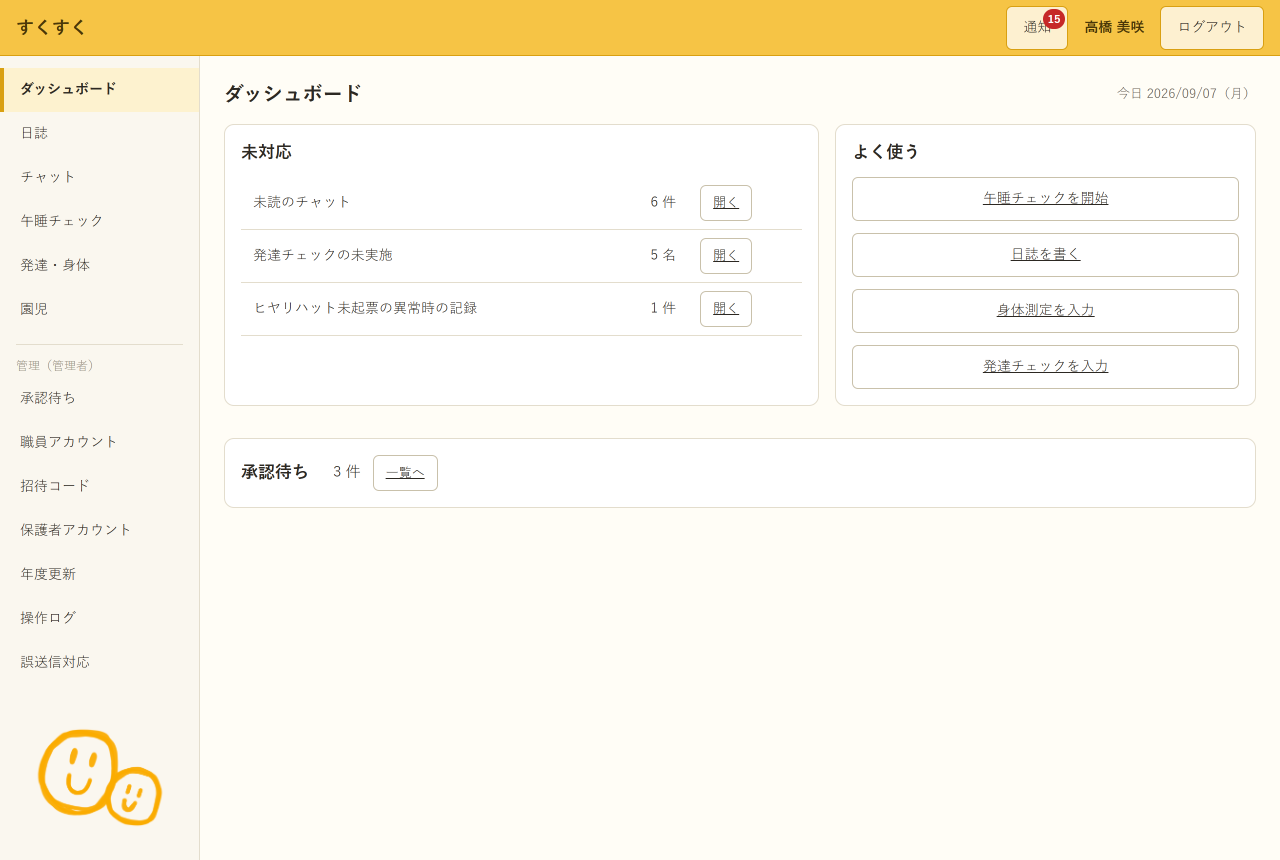
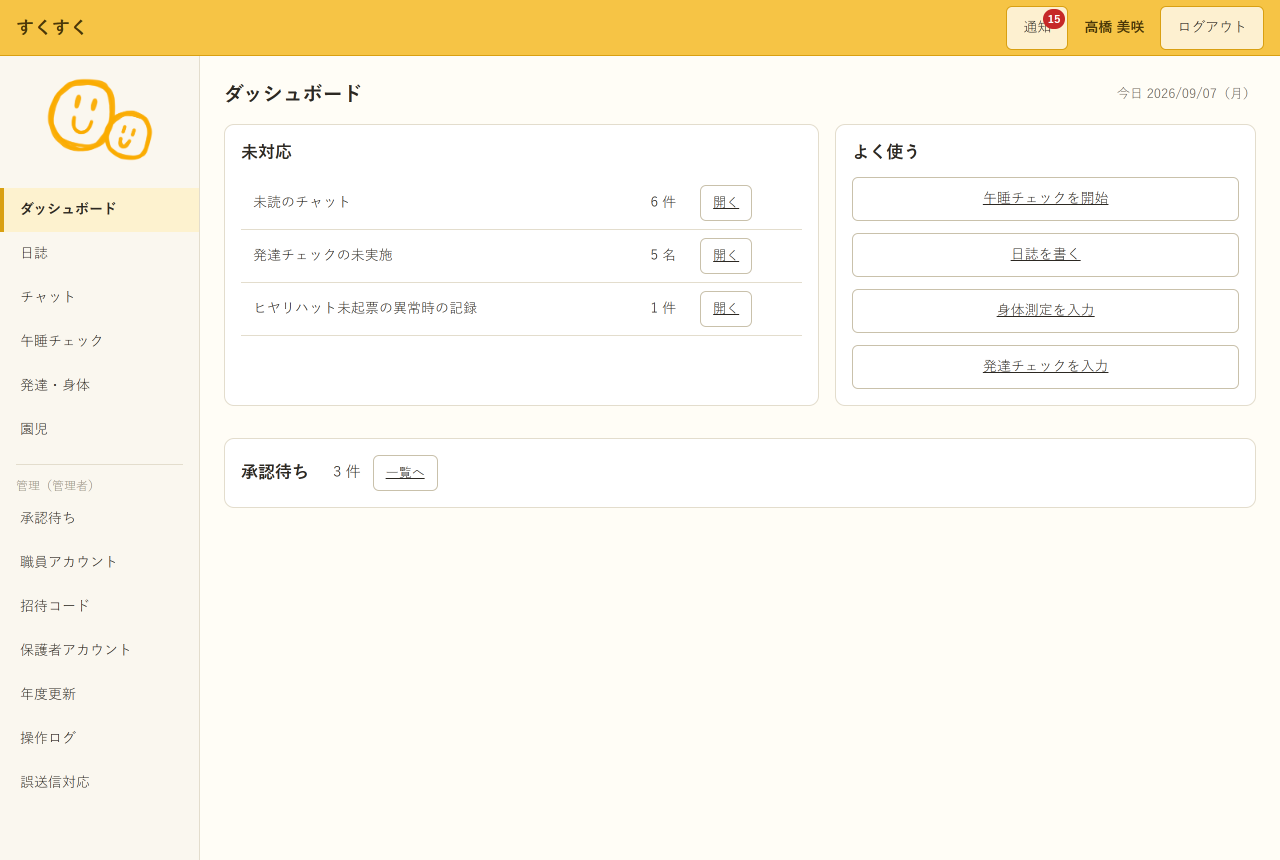
ワンポイントをメニュー上部に置く配置デモへ変更

diff --git a/図/ワンポイントデザイン案.md b/図/ワンポイントデザイン案.md
@@ -17,9 +17,9 @@
 
 ## 職員画面での配置デモ
 
-![職員ダッシュボードのサイドバー下部に手描きの印を置いたデモ](デザイン案/採用ワンポイント/配置デモ_職員.png)
+![職員ダッシュボードのサイドバー先頭に手描きの印を置いたデモ](デザイン案/採用ワンポイント/配置デモ_職員.png)
 
-`図/デザイン案/採用ワンポイント/配置デモ_職員.png` は、既存の職員ダッシュボード画像に手描きの印を仮配置した確認用画像。配置はサイドバー下部、表示幅は約138px。合成元の SVG も同じ場所に置く。白い余白はデモ内の乗算合成で背景になじませており、元の画像ファイルは変更していない。この配置は未確定で、アプリの実装にはまだ反映していない。
+`図/デザイン案/採用ワンポイント/配置デモ_職員.png` は、既存の職員ダッシュボード画像に手描きの印を仮配置した確認用画像。配置はサイドバーの先頭、ダッシュボードボタンの上で、ダッシュボード以下のメニューを約120px下げた。印の表示幅は約116px。合成元の SVG も同じ場所に置く。白い余白はデモ内の乗算合成で背景になじませており、元の画像ファイルは変更していない。この配置は未確定で、アプリの実装にはまだ反映していない。
 
 ## 画面で使うときの確認
 
